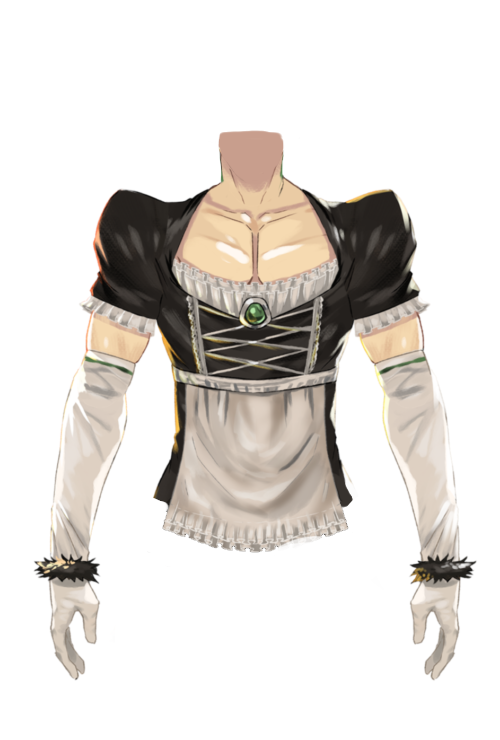
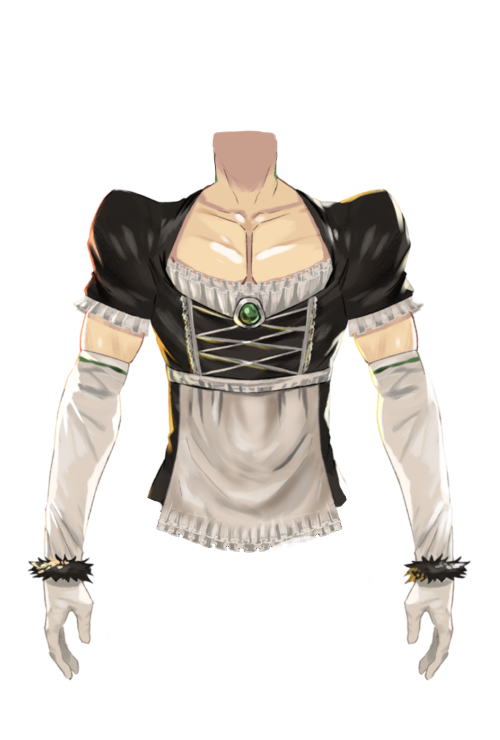
9/10

Changed region(s): [[0.06, 0.1554, 0.96, 0.9324], [0.42, 0.6216, 0.45, 0.6527]]

diff --git a/Altseed/NiziChimera/bin/Log.html b/Altseed/NiziChimera/bin/Log.html
@@ -157,7 +157,7 @@ SharedSystemMemory</td><td>
 <strong>アウトプット情報 (1)</strong><br />
 <table><tr><td>
 Name</td><td>
-\\.\DISPLAY1</td></tr><tr><td>
+\\.\DISPLAY2</td></tr><tr><td>
 AttachedToDesktop</td><td>
 True</td></tr><tr><td>
 Coordinate</td><td>
@@ -165,7 +165,7 @@ Coordinate</td><td>
 <strong>アウトプット情報 (2)</strong><br />
 <table><tr><td>
 Name</td><td>
-\\.\DISPLAY2</td></tr><tr><td>
+\\.\DISPLAY1</td></tr><tr><td>
 AttachedToDesktop</td><td>
 True</td></tr><tr><td>
 Coordinate</td><td>
@@ -199,15 +199,15 @@ CPU名</td><td>
 Intel(R) Core(TM) i5-7500 CPU @ 3.40GHz</td></tr><tr><td>
 OS情報</td><td>
 OS: Windows
-Version: 6.2 00CFEB84
+Version: 6.2 00BAEF64
 Build: 9200
 ProductType: Workstation
 SuiteMask: 0x300
 </td></tr><tr><td>
 メモリ情報</td><td>
-Using: 44%
+Using: 42%
 Total physical memory: 16351MB
-Free physical memory: 9089MB
+Free physical memory: 9428MB
 Total virtual memory: 2047MB
 Free virtual memory: 1624MB
 </td></tr></table>

diff --git a/Altseed/NiziChimera/STG/Scene/CustamModeScene.cs b/Altseed/NiziChimera/STG/Scene/CustamModeScene.cs
@@ -37,7 +37,7 @@ namespace STG
         int yLine = 150;
 
         //幅比率
-        float bodyRatio;
+        float headRatio;
         float lowerRatio;
 
         Random randomNum = new System.Random();
@@ -134,6 +134,19 @@ namespace STG
 
         public void ImageUnion(int headNum, int bodyNum, int lowerNum)
         {
+            // 体
+            //画像の読み込み
+            bodyCard.Texture = asd.Engine.Graphics.CreateTexture2D($"Resources/body/body{bodyNum.ToString("000")}.png");
+
+            //画像の中心点のY座標をデータファイルから取得
+            int bodyCenterY = IntParse(bodyCard.getCardComponent(bodyNum, 9));
+            bodyCard.CenterPosition = new asd.Vector2DF(bodyCard.Texture.Size.X / 2.0f, bodyCenterY);
+
+            //頭と同じ座標に表示
+            bodyCard.Position = new asd.Vector2DF(xLine, yLine);
+            bodyCard.Scale = new asd.Vector2DF( 0.5f,  0.5f);
+
+
             //頭
             //画像の読み込み
             headCard.Texture = asd.Engine.Graphics.CreateTexture2D($"Resources/head/head{headNum.ToString("000")}.png");
@@ -142,28 +155,11 @@ namespace STG
             int headCenterY = IntParse(headCard.getCardComponent(headNum, 9));
             headCard.CenterPosition = new asd.Vector2DF(headCard.Texture.Size.X / 2.0f, headCenterY);
 
-            headCard.Position = new asd.Vector2DF(xLine, yLine);
-            headCard.Scale = new asd.Vector2DF(0.5f, 0.5f);
-            DrawLine((int)headCenterY );
+            //体と頭の大きさの比率を計算
+            headRatio = (float)IntParse(bodyCard.getCardComponent(bodyNum, 8)) / IntParse(headCard.getCardComponent(headNum, 8));
 
-            //体
-            //画像の読み込み
-            bodyCard.Texture = asd.Engine.Graphics.CreateTexture2D($"Resources/body/body{bodyNum.ToString("000")}.png");
-
-            //画像の中心点のY座標をデータファイルから取得
-            int bodyCenterY = IntParse(bodyCard.getCardComponent(bodyNum , 9));
-            bodyCard.CenterPosition = new asd.Vector2DF(bodyCard.Texture.Size.X / 2.0f, bodyCenterY);
-
-            //頭と同じ座標に表示
-            bodyCard.Position = headCard.Position;
-
-            //DrawLine((int)bodyCard.Position.Y);
-
-            //頭と体の大きさの比率を計算
-            bodyRatio = (float)IntParse(headCard.getCardComponent(headNum , 8)) / IntParse(bodyCard.getCardComponent(bodyNum , 8));
-
-            Console.WriteLine(bodyRatio);
-            bodyCard.Scale = new asd.Vector2DF(bodyRatio * 0.5f, bodyRatio * 0.5f);
+            headCard.Position =  bodyCard.Position;
+            headCard.Scale = new asd.Vector2DF(0.5f * headRatio , 0.5f * headRatio);
 
             //足
             lowerCard.Texture = asd.Engine.Graphics.CreateTexture2D($"Resources/lower/lower{lowerNum.ToString("000")}.png");
@@ -174,15 +170,16 @@ namespace STG
             int bodyUnionY = IntParse(bodyCard.getCardComponent(bodyNum, 10));
 
             //下半身と胴体の比率計算
-            lowerRatio = (float)IntParse(bodyCard.getCardComponent(bodyNum, 11)) / IntParse(lowerCard.getCardComponent(lowerNum, 8)) * bodyRatio;
+            lowerRatio = (float)IntParse(bodyCard.getCardComponent(bodyNum, 11)) / IntParse(lowerCard.getCardComponent(lowerNum, 8));
 
             lowerCard.Position = new asd.Vector2DF
-                (xLine, bodyUnionY * 0.5f * bodyRatio + bodyCard.Position.Y  - lowerCenterY * bodyRatio * 0.5f );
+                (xLine + IntParse(bodyCard.getCardComponent(bodyNum, 12)) * 0.5f , bodyUnionY * 0.5f  + bodyCard.Position.Y   - bodyCenterY * 0.5f);
             //DrawLine((int)lowerCard.Position.Y);
 
 
 
-            //DrawLine((float)bodyRatio * IntParse(bodyCard.getCardComponent(bodyNum, 11))  + bodyCard.Position.Y);
+            DrawLine(bodyUnionY * 0.5f  + bodyCard.Position.Y   - bodyCenterY  * 0.5f);
+            Console.WriteLine((float)IntParse(bodyCard.getCardComponent(bodyNum, 11)) + bodyCard.Position.Y);
 
             lowerCard.Scale = new asd.Vector2DF(0.5f * lowerRatio , 0.5f * lowerRatio);
         }
